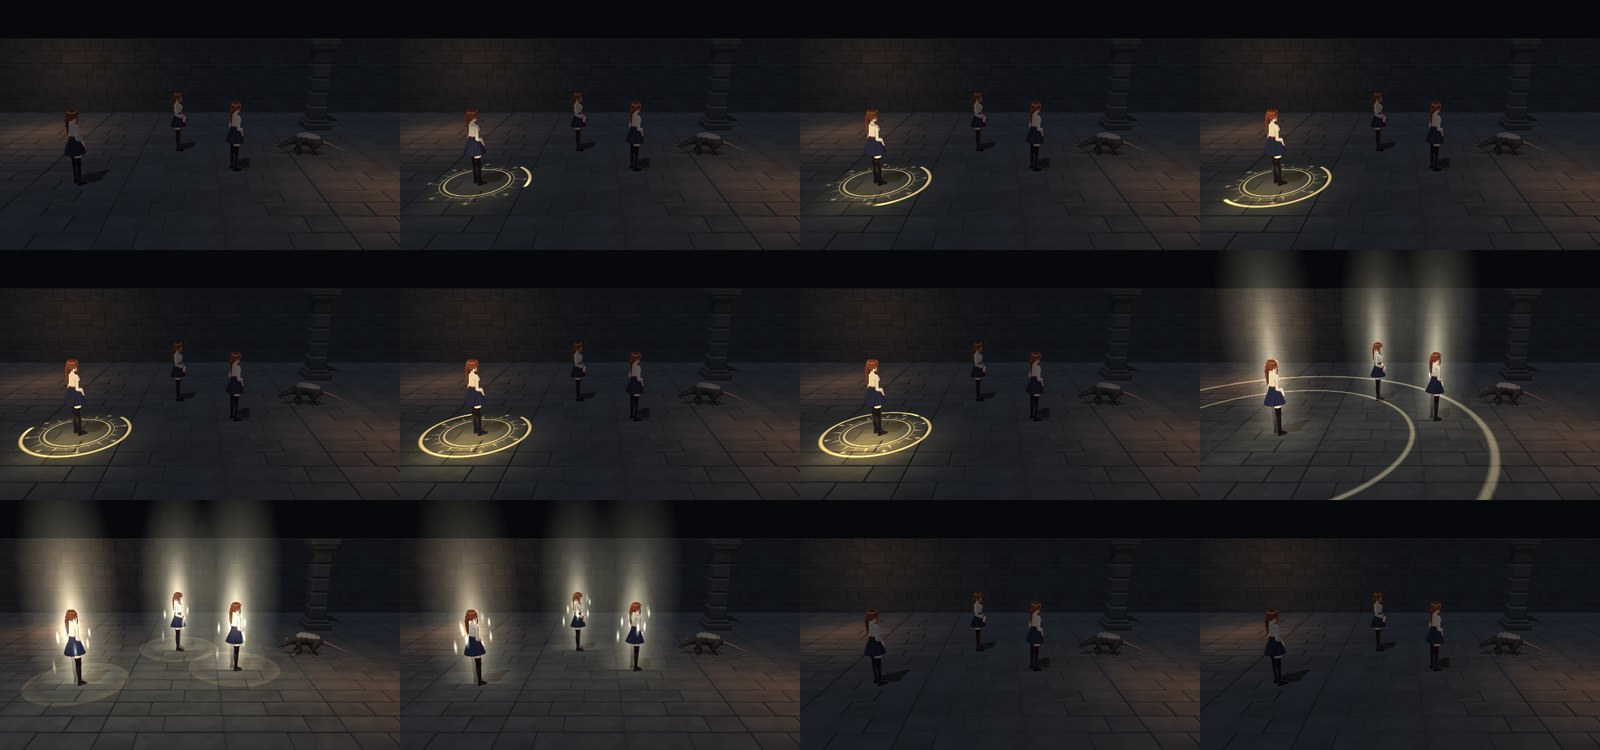
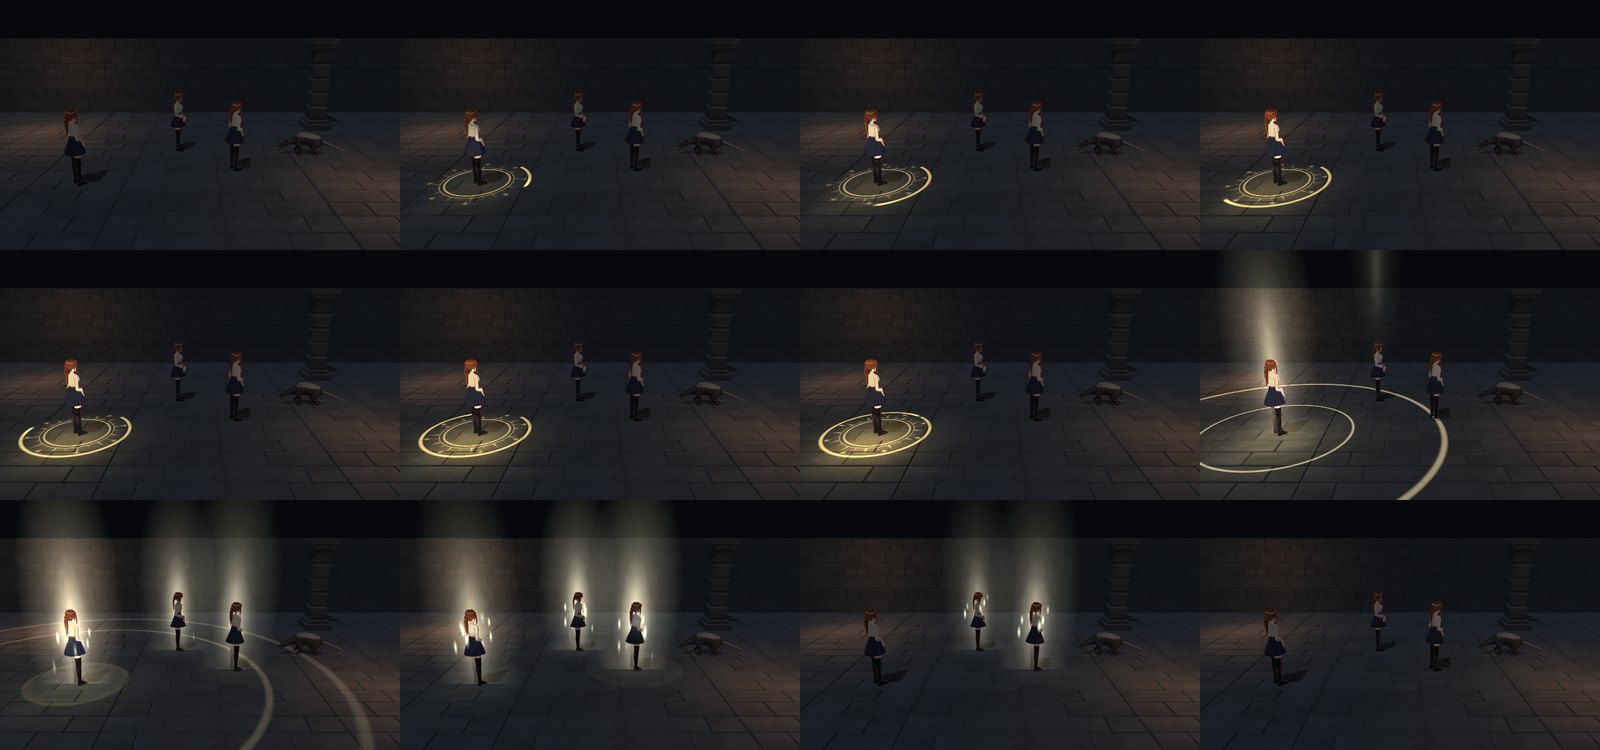
Priest talents: all six variants approved; new showcase, sheets and proof stills

diff --git a/abilities.html b/abilities.html
@@ -13,13 +13,13 @@
 </head>
 <body>
 <header class="top"><div class="wrap"><a class="brand" href="index.html">Ashen <b>Covenant</b></a><nav aria-label="Sections"><a href="index.html">Overview</a><a href="iroha.html">Iroha</a><a href="characters.html">Eve and Enosh</a><a href="abilities.html" aria-current="page">Skill animations</a><a href="guild-hall.html">Guild hall</a><a href="dungeon.html">Dungeon</a><a href="town.html">Town</a><a href="models.html">Model viewer</a><a href="explore.html">Scene viewer</a></nav></div></header>
-<section class="hero"><div class="wrap"><p class="eyebrow">Skill animations</p><h1>Priest spell effects</h1><p class="lede">A holy cast circle under the priest, then Lesser Heal, Smite and Barrier of Light, and what happens when a prayer is interrupted. All recordings are frames from the Windows player at half size.</p><p class="status"><b>Status:</b> the spell effects were independently approved at 8.3/10 on the fourth review pass. The ability proof passes its automated checks (Editor 22/22, Windows player 20/20) but has not been played by a person.</p></div></section><main class="page"><div class="wrap"><h2 id="talents">Priest talent variants</h2><p>Talents that replace or add priest abilities. Two are new effects; the others reuse the approved ones with new settings, so the approved look is unchanged by default.</p><figure><a href="media/abilities/c11-priest-talents-close-cold.gif"><img src="media/abilities/c11-priest-talents-close-cold.gif" alt="All six in one 22.6 second showcase, close camera, dark preset (12 MB)." loading="lazy"></a><figcaption>All six in one 22.6 second showcase, close camera, dark preset (12 MB).</figcaption></figure><div class="scroll"><table><tr><th>Talent</th><th>What is shown</th></tr>
-<tr><td>Swift Prayer</td><td>Lesser Heal played 1.8 times as fast at three-quarters size; the priest&#39;s circle only flashes, since the prayer is instant.</td></tr>
-<tr><td>Hallowed Ground</td><td>New. A consecrated circle of gold line work on the floor that pulses with each one-second heal for six seconds.</td></tr>
-<tr><td>Mirror of Light</td><td>Barrier of Light, silvered; when broken, its shards are thrown back at whoever broke it.</td></tr>
-<tr><td>Shared Light</td><td>New. A pale ring rolls out 4 m from the priest and every ally inside shows a barrier.</td></tr>
-<tr><td>Judgement</td><td>Smite drawn 1.8 times as large over a 1.6 s cast.</td></tr>
-<tr><td>Benediction</td><td>A gold ring rolls out to 6 m and each ally in reach shows a smaller Lesser Heal.</td></tr></table></div><div class="pair"><figure><a href="media/abilities/c11-priest-talents-sheet-hallowed.jpg"><img src="media/abilities/c11-priest-talents-sheet-hallowed.jpg" alt="Hallowed Ground." loading="lazy"></a><figcaption>Hallowed Ground.</figcaption></figure><figure><a href="media/abilities/c11-priest-talents-sheet-mirror.jpg"><img src="media/abilities/c11-priest-talents-sheet-mirror.jpg" alt="Mirror of Light." loading="lazy"></a><figcaption>Mirror of Light.</figcaption></figure><figure><a href="media/abilities/c11-priest-talents-sheet-shared.jpg"><img src="media/abilities/c11-priest-talents-sheet-shared.jpg" alt="Shared Light." loading="lazy"></a><figcaption>Shared Light.</figcaption></figure><figure><a href="media/abilities/c11-priest-talents-sheet-benediction.jpg"><img src="media/abilities/c11-priest-talents-sheet-benediction.jpg" alt="Benediction." loading="lazy"></a><figcaption>Benediction.</figcaption></figure><figure><a href="media/abilities/c11-priest-talents-sheet-swift.jpg"><img src="media/abilities/c11-priest-talents-sheet-swift.jpg" alt="Swift Prayer." loading="lazy"></a><figcaption>Swift Prayer.</figcaption></figure><figure><a href="media/abilities/c11-priest-talents-sheet-judgement.jpg"><img src="media/abilities/c11-priest-talents-sheet-judgement.jpg" alt="Judgement." loading="lazy"></a><figcaption>Judgement.</figcaption></figure></div><ul class="short"><li>Built and wired into the ability proof, where T switches the priest&#39;s talents; all automated checks pass. The first independent review scored 7.1/10 and asked for changes (the main one: allies healed by Hallowed Ground show nothing on their bodies). Those changes are being made now; by the project rule the variants are unfinished until a review reaches 8.</li></ul><details class="older"><summary><h2 id="mercy"><span class="when">Earlier</span>Goddess&#39; Mercy</h2></summary><div class="older-body"><p>The priest&#39;s revival prayer. Light gathers above the fallen ally during the prayer; on completion it comes down, wings of light open behind the ally as they rise, and the pillar outlasts the rise. If the prayer is broken, the light drops, the feathers fall out of the air and the ring goes cold and closes on the body.</p><figure><a href="media/abilities/c11-goddess-mercy-close-cold.gif"><img src="media/abilities/c11-goddess-mercy-close-cold.gif" alt="Goddess&amp;#39; Mercy, close camera, dark preset (7 MB)." loading="lazy"></a><figcaption>Goddess&#39; Mercy, close camera, dark preset (7 MB).</figcaption></figure><figure><a href="media/abilities/c11-goddess-mercy-sheet-completion.jpg"><img src="media/abilities/c11-goddess-mercy-sheet-completion.jpg" alt="The completion, frame by frame." loading="lazy"></a><figcaption>The completion, frame by frame.</figcaption></figure><ul class="short"><li>Independently reviewed at 8.1/10 and approved with no required changes. At your request the reviewer&#39;s optional polish was then applied: fuller wings that arrive late in the prayer, beats in the prayer, a smaller priest circle and a cleaner interrupted state. The polished version has not been reviewed again.</li><li>The Warrior effects (Strike, Guard, Shield Bash, Taunt) are on hold at your word until Eve and Enosh are finished; their first review scored 7.4.</li></ul></div></details><details class="older"><summary><h2><span class="when">Earlier</span>Driven by the ability rules</h2></summary><div class="older-body"><p>A small room with a Warrior, a Priest and one scavenger. The rules decide who can act, what it costs, when a prayer is interrupted and how much is healed or absorbed; the effects only show what the rules report. Both party members use the guild clerk as a stand-in body.</p><figure><a href="media/abilities/c11-ability-proof-demo.gif"><img src="media/abilities/c11-ability-proof-demo.gif" alt="Twenty seconds of a fight with both party members run by the companion logic (17 MB)." loading="lazy"></a><figcaption>Twenty seconds of a fight with both party members run by the companion logic (17 MB).</figcaption></figure><div class="grid3"><figure><a href="media/abilities/c11-ability-proof-heal-casting.jpg"><img src="media/abilities/c11-ability-proof-heal-casting.jpg" alt="Prayer under way." loading="lazy"></a><figcaption>Prayer under way.</figcaption></figure><figure><a href="media/abilities/c11-ability-proof-smite-strike.jpg"><img src="media/abilities/c11-ability-proof-smite-strike.jpg" alt="Smite landing." loading="lazy"></a><figcaption>Smite landing.</figcaption></figure><figure><a href="media/abilities/c11-ability-proof-barrier-resting.jpg"><img src="media/abilities/c11-ability-proof-barrier-resting.jpg" alt="Barrier on the warrior." loading="lazy"></a><figcaption>Barrier on the warrior.</figcaption></figure></div></div></details><details class="older"><summary><h2><span class="when">Earlier</span>The four effects</h2></summary><div class="older-body"><p>One 10.6 second showcase: Lesser Heal, Smite, Barrier of Light (struck once, then broken) and a prayer interrupted mid-cast. The capsules stand in for the priest and an ally.</p><figure><a href="media/abilities/c11-holy-spells-v001-close-cold.gif"><img src="media/abilities/c11-holy-spells-v001-close-cold.gif" alt="Close camera, dark preset." loading="lazy"></a><figcaption>Close camera, dark preset.</figcaption></figure><div class="pair"><figure><a href="media/abilities/c11-holy-spells-v001-gameplay-cold.gif"><img src="media/abilities/c11-holy-spells-v001-gameplay-cold.gif" alt="Gameplay camera, dark preset." loading="lazy"></a><figcaption>Gameplay camera, dark preset.</figcaption></figure><figure><a href="media/abilities/c11-holy-spells-v001-gameplay-warm.gif"><img src="media/abilities/c11-holy-spells-v001-gameplay-warm.gif" alt="Gameplay camera, bright preset." loading="lazy"></a><figcaption>Gameplay camera, bright preset.</figcaption></figure></div><div class="scroll"><table><tr><th>Effect</th><th>What is shown</th></tr>
+<section class="hero"><div class="wrap"><p class="eyebrow">Skill animations</p><h1>Priest spell effects</h1><p class="lede">A holy cast circle under the priest, then Lesser Heal, Smite and Barrier of Light, and what happens when a prayer is interrupted. All recordings are frames from the Windows player at half size.</p><p class="status"><b>Status:</b> the spell effects were independently approved at 8.3/10 on the fourth review pass. The ability proof passes its automated checks (Editor 22/22, Windows player 20/20) but has not been played by a person.</p></div></section><main class="page"><div class="wrap"><h2 id="talents">Priest talent variants</h2><p>Talents that replace or add priest abilities. Two are new effects; the others reuse the approved ones with new settings, so the approved look is unchanged by default. Waiting for your review.</p><figure><a href="media/abilities/c11-priest-talents-close-cold.gif"><img src="media/abilities/c11-priest-talents-close-cold.gif" alt="All six in one 22.6 second showcase, close camera, dark preset (13 MB)." loading="lazy"></a><figcaption>All six in one 22.6 second showcase, close camera, dark preset (13 MB).</figcaption></figure><div class="scroll"><table><tr><th>Talent</th><th>What is shown</th><th>Review</th></tr>
+<tr><td>Swift Prayer</td><td>Lesser Heal, faster and smaller, landing almost as the prayer is spoken. The priest&#39;s circle is only a faint closed gold ring for an instant, so your eye goes to the healed ally.</td><td>8.0/10</td></tr>
+<tr><td>Hallowed Ground</td><td>New. A consecrated circle of gold line work on the floor. Each one-second heal sends a ripple to the rim and shows a small heal on every ally standing in it.</td><td>8.1/10</td></tr>
+<tr><td>Mirror of Light</td><td>Barrier of Light, silvered. When broken, the shards fly at whoever broke it and burst on them; the light goes with them and a ring opens on the floor under the attacker.</td><td>8.3/10</td></tr>
+<tr><td>Shared Light</td><td>New. A pale ring rolls out 4 m from the priest; every ally inside, the priest too, gets a slightly smaller barrier that rests pale gold-white.</td><td>8.2/10</td></tr>
+<tr><td>Judgement</td><td>Its own effect, built on Smite at 1.8 times the size over a 1.6 s cast: a sun mark with a second halo ring turning the other way, then a broad shaft.</td><td>8.3/10</td></tr>
+<tr><td>Benediction</td><td>A gold ring rolls out to 6 m; each ally in reach, the priest too, shows a smaller Lesser Heal as the ring reaches them.</td><td>8.2/10</td></tr></table></div><ul class="short"><li>All six approved by independent critics, each reviewed on its own (the rule is 8/10). Hallowed Ground and Benediction passed on the second review; the other four on the third, after these changes: Swift Prayer&#39;s circle made faint and instant; Mirror of Light&#39;s shards sent to the attacker; Shared Light given its own gold-white barriers; Judgement given a halo and a thin ripple. The approved Lesser Heal, Smite and Barrier of Light look exactly as before.</li><li>Fixed along the way: stills from the ability proof sometimes showed the previous spell&#39;s effects for one frame.</li><li>One known quirk, left as approved: Hallowed Ground&#39;s sixth heal comes as the circle fades, so it shows on the ally but not on the circle.</li><li>The reviewers&#39; optional polish was not applied. The Warrior effects stay on hold until Eve and Enosh are finished.</li></ul><h3>Frame sheets</h3><div class="pair"><figure><a href="media/abilities/c11-priest-talents-sheet-swift.jpg"><img src="media/abilities/c11-priest-talents-sheet-swift.jpg" alt="Swift Prayer." loading="lazy"></a><figcaption>Swift Prayer.</figcaption></figure><figure><a href="media/abilities/c11-priest-talents-sheet-hallowed.jpg"><img src="media/abilities/c11-priest-talents-sheet-hallowed.jpg" alt="Hallowed Ground." loading="lazy"></a><figcaption>Hallowed Ground.</figcaption></figure><figure><a href="media/abilities/c11-priest-talents-sheet-mirror.jpg"><img src="media/abilities/c11-priest-talents-sheet-mirror.jpg" alt="Mirror of Light." loading="lazy"></a><figcaption>Mirror of Light.</figcaption></figure><figure><a href="media/abilities/c11-priest-talents-sheet-shared.jpg"><img src="media/abilities/c11-priest-talents-sheet-shared.jpg" alt="Shared Light." loading="lazy"></a><figcaption>Shared Light.</figcaption></figure><figure><a href="media/abilities/c11-priest-talents-sheet-judgement.jpg"><img src="media/abilities/c11-priest-talents-sheet-judgement.jpg" alt="Judgement." loading="lazy"></a><figcaption>Judgement.</figcaption></figure><figure><a href="media/abilities/c11-priest-talents-sheet-benediction.jpg"><img src="media/abilities/c11-priest-talents-sheet-benediction.jpg" alt="Benediction." loading="lazy"></a><figcaption>Benediction.</figcaption></figure></div><h3>Run by the ability rules</h3><p>The same effects in the ability proof, where the rules decide every heal, barrier and strike (press T there to switch the priest&#39;s talents).</p><div class="grid3"><figure><a href="media/abilities/c11-ability-proof-swift-prayer.jpg"><img src="media/abilities/c11-ability-proof-swift-prayer.jpg" alt="Swift Prayer." loading="lazy"></a><figcaption>Swift Prayer.</figcaption></figure><figure><a href="media/abilities/c11-ability-proof-hallowed-ground.jpg"><img src="media/abilities/c11-ability-proof-hallowed-ground.jpg" alt="Hallowed Ground." loading="lazy"></a><figcaption>Hallowed Ground.</figcaption></figure><figure><a href="media/abilities/c11-ability-proof-mirror-recoil.jpg"><img src="media/abilities/c11-ability-proof-mirror-recoil.jpg" alt="Mirror of Light breaking." loading="lazy"></a><figcaption>Mirror of Light breaking.</figcaption></figure><figure><a href="media/abilities/c11-ability-proof-shared-light.jpg"><img src="media/abilities/c11-ability-proof-shared-light.jpg" alt="Shared Light." loading="lazy"></a><figcaption>Shared Light.</figcaption></figure><figure><a href="media/abilities/c11-ability-proof-judgement.jpg"><img src="media/abilities/c11-ability-proof-judgement.jpg" alt="Judgement." loading="lazy"></a><figcaption>Judgement.</figcaption></figure><figure><a href="media/abilities/c11-ability-proof-benediction.jpg"><img src="media/abilities/c11-ability-proof-benediction.jpg" alt="Benediction." loading="lazy"></a><figcaption>Benediction.</figcaption></figure></div><details class="older"><summary><h2 id="mercy"><span class="when">Earlier</span>Goddess&#39; Mercy</h2></summary><div class="older-body"><p>The priest&#39;s revival prayer. Light gathers above the fallen ally during the prayer; on completion it comes down, wings of light open behind the ally as they rise, and the pillar outlasts the rise. If the prayer is broken, the light drops, the feathers fall out of the air and the ring goes cold and closes on the body.</p><figure><a href="media/abilities/c11-goddess-mercy-close-cold.gif"><img src="media/abilities/c11-goddess-mercy-close-cold.gif" alt="Goddess&amp;#39; Mercy, close camera, dark preset (7 MB)." loading="lazy"></a><figcaption>Goddess&#39; Mercy, close camera, dark preset (7 MB).</figcaption></figure><figure><a href="media/abilities/c11-goddess-mercy-sheet-completion.jpg"><img src="media/abilities/c11-goddess-mercy-sheet-completion.jpg" alt="The completion, frame by frame." loading="lazy"></a><figcaption>The completion, frame by frame.</figcaption></figure><ul class="short"><li>Independently reviewed at 8.1/10 and approved with no required changes. At your request the reviewer&#39;s optional polish was then applied: fuller wings that arrive late in the prayer, beats in the prayer, a smaller priest circle and a cleaner interrupted state. The polished version has not been reviewed again.</li><li>The Warrior effects (Strike, Guard, Shield Bash, Taunt) are on hold at your word until Eve and Enosh are finished; their first review scored 7.4.</li></ul></div></details><details class="older"><summary><h2><span class="when">Earlier</span>Driven by the ability rules</h2></summary><div class="older-body"><p>A small room with a Warrior, a Priest and one scavenger. The rules decide who can act, what it costs, when a prayer is interrupted and how much is healed or absorbed; the effects only show what the rules report. Both party members use the guild clerk as a stand-in body.</p><figure><a href="media/abilities/c11-ability-proof-demo.gif"><img src="media/abilities/c11-ability-proof-demo.gif" alt="Twenty seconds of a fight with both party members run by the companion logic (17 MB)." loading="lazy"></a><figcaption>Twenty seconds of a fight with both party members run by the companion logic (17 MB).</figcaption></figure><div class="grid3"><figure><a href="media/abilities/c11-ability-proof-heal-casting.jpg"><img src="media/abilities/c11-ability-proof-heal-casting.jpg" alt="Prayer under way." loading="lazy"></a><figcaption>Prayer under way.</figcaption></figure><figure><a href="media/abilities/c11-ability-proof-smite-strike.jpg"><img src="media/abilities/c11-ability-proof-smite-strike.jpg" alt="Smite landing." loading="lazy"></a><figcaption>Smite landing.</figcaption></figure><figure><a href="media/abilities/c11-ability-proof-barrier-resting.jpg"><img src="media/abilities/c11-ability-proof-barrier-resting.jpg" alt="Barrier on the warrior." loading="lazy"></a><figcaption>Barrier on the warrior.</figcaption></figure></div></div></details><details class="older"><summary><h2><span class="when">Earlier</span>The four effects</h2></summary><div class="older-body"><p>One 10.6 second showcase: Lesser Heal, Smite, Barrier of Light (struck once, then broken) and a prayer interrupted mid-cast. The capsules stand in for the priest and an ally.</p><figure><a href="media/abilities/c11-holy-spells-v001-close-cold.gif"><img src="media/abilities/c11-holy-spells-v001-close-cold.gif" alt="Close camera, dark preset." loading="lazy"></a><figcaption>Close camera, dark preset.</figcaption></figure><div class="pair"><figure><a href="media/abilities/c11-holy-spells-v001-gameplay-cold.gif"><img src="media/abilities/c11-holy-spells-v001-gameplay-cold.gif" alt="Gameplay camera, dark preset." loading="lazy"></a><figcaption>Gameplay camera, dark preset.</figcaption></figure><figure><a href="media/abilities/c11-holy-spells-v001-gameplay-warm.gif"><img src="media/abilities/c11-holy-spells-v001-gameplay-warm.gif" alt="Gameplay camera, bright preset." loading="lazy"></a><figcaption>Gameplay camera, bright preset.</figcaption></figure></div><div class="scroll"><table><tr><th>Effect</th><th>What is shown</th></tr>
 <tr><td>Holy cast circle</td><td>Gold line work under the priest. The outer ring draws itself clockwise over the cast time, then flashes white and opens.</td></tr>
 <tr><td>Interrupted prayer</td><td>The circle turns cold blue-white, cracks into dashes and slides inward. Gone in 0.45 s with no release flash.</td></tr>
 <tr><td>Lesser Heal</td><td>A soft column of warm light settles on the ally, a gold ring lands at the feet and motes rise along the body.</td></tr>

diff --git a/index.html b/index.html
@@ -13,7 +13,7 @@
 </head>
 <body>
 <header class="top"><div class="wrap"><a class="brand" href="index.html">Ashen <b>Covenant</b></a><nav aria-label="Sections"><a href="index.html" aria-current="page">Overview</a><a href="iroha.html">Iroha</a><a href="characters.html">Eve and Enosh</a><a href="abilities.html">Skill animations</a><a href="guild-hall.html">Guild hall</a><a href="dungeon.html">Dungeon</a><a href="town.html">Town</a><a href="models.html">Model viewer</a><a href="explore.html">Scene viewer</a></nav></div></header>
-<section class="hero"><div class="wrap"><p class="eyebrow">Work log · 13–14 October 2026</p><h1>Ashen Covenant</h1><p class="lede">A party dungeon game in Unity. This page collects the work of the last two days: the guild clerk's model, the two character templates, the priest's spell effects, the guild hall, the first dungeon floor and the town.</p><p class="actions"><a class="btn" href="models.html">Model viewer<small>Turn the characters round</small></a><a class="btn" href="explore.html">Scene viewer<small>Move through the areas</small></a></p></div></section><div class="wrap"><h2 class="latest-h">Latest</h2><ol class="latest"><li><time>14 Oct</time><a href="characters.html#adventurer-hairline"><b>Adventurer</b></a><span>New hairline for the male adventurer (a025): a layered fringe over the forehead, side locks to the cheekbone, a soft hair shadow on the forehead. Waiting for your review.</span></li><li><time>14 Oct</time><a href="models.html"><b>3D viewers</b></a><span>Model viewer now has Iroha v053 and Eve r064 in their idle poses; scene viewer has guild hall v011 and dungeon candidate 003.</span></li><li><time>14 Oct</time><a href="guild-hall.html"><b>Guild hall</b></a><span>Floor refinement prompt written for the hall: board joints into a texture to stop the shimmer, wear from foot traffic, warmer hearth stone, runners in place of the green mats. Planned, not built.</span></li><li><time>14 Oct</time><a href="characters.html#enosh"><b>Enosh</b></a><span>You reviewed template t004 (“looks good so far”) and adventurer a012; the adventurer’s hairline goes to its own thread.</span></li></ol><details class="older"><summary><span class="when">Earlier</span>13 Oct · 6 items</summary><ol class="latest"><li><time>13 Oct</time><a href="abilities.html#talents"><b>Priest talents</b></a><span>Six talent variants built, two of them new effects (Hallowed Ground, Shared Light); first review 7.1/10, changes under way.</span></li><li><time>13 Oct</time><a href="abilities.html#mercy"><b>Goddess’ Mercy</b></a><span>Revival prayer approved at 8.1/10, then polished: wings of light, beats in the prayer, a cleaner interruption.</span></li><li><time>13 Oct</time><a href="dungeon.html#r003"><b>Dungeon</b></a><span>Revision 003 Floor 1 candidate: pale sand drill beds, lamps strung in every room, three lesson marks and the garrison’s defended gate.</span></li><li><time>13 Oct</time><a href="characters.html#eve"><b>Eve</b></a><span>Elastic bands, a planted walk with roll and sway, real playback in a built player, pose shapes and painted landmarks (r034 to r064).</span></li><li><time>13 Oct</time><a href="iroha.html#shoes"><b>Iroha</b></a><span>New brown ankle boots designed and built (v046 to v050), then a larger stud and a rounded toe (v053). She now stands in guild candidate v011.</span></li><li><time>13 Oct</time><a href="guild-hall.html"><b>Guild hall</b></a><span>Candidates v009 to v011: stair against the east wall, the memorial on the gallery, a second storey, a tiled roof and lamps.</span></li></ol></details></div><div class="wrap"><div class="cards"><a class="card" href="iroha.html"><div class="thumb"><img src="media/iroha/t6-clerk-face-v028-unity-desk.jpg" alt=""></div><div class="body"><p class="eyebrow">Character model</p><h2>Iroha, the guild clerk</h2><p>Face, hair, hands, legs and new boots refined step by step, v020 to v053, with before and after sheets for each part.</p><span class="go">See the before and after →</span></div></a><a class="card" href="characters.html"><div class="thumb"><img src="media/characters/enosh-en13-scale.jpg" alt=""></div><div class="body"><p class="eyebrow">Character templates</p><h2>Eve and Enosh</h2><p>Eve's face, eyes, feet, undergarments and outfit; Enosh, the male template built from her, and the first male adventurer.</p><span class="go">See the templates →</span></div></a><a class="card" href="abilities.html"><div class="thumb"><img src="media/abilities/c11-ability-proof-smite-strike.jpg" alt=""></div><div class="body"><p class="eyebrow">Priest spells</p><h2>Skill animations</h2><p>Holy cast circle, Lesser Heal, Smite, Barrier of Light, Goddess Mercy with its wings of light, and six talent variants.</p><span class="go">Watch the spells →</span></div></a><a class="card" href="guild-hall.html"><div class="thumb"><img src="media/guild/v010-roof.jpg" alt=""></div><div class="body"><p class="eyebrow">Environment</p><h2>Adventurers' guild hall</h2><p>From grey blockout to a two-storey hall under a tiled roof, with a service counter, a muster yard, lamps and the memorial on its gallery.</p><span class="go">Walk the hall →</span></div></a><a class="card" href="dungeon.html"><div class="thumb"><img src="media/dungeon/after-cistern.jpg" alt=""></div><div class="body"><p class="eyebrow">Environment</p><h2>Dungeon, floor one</h2><p>Floor one rebuilt as a guild-held floor and now in the live scenes; a third candidate adds sand drill beds, rope lamps, lesson marks and the garrison gate.</p><span class="go">Go down →</span></div></a><a class="card" href="town.html"><div class="thumb"><img src="media/town/after-guild-approach.jpg" alt=""></div><div class="body"><p class="eyebrow">Environment</p><h2>Town and cathedral</h2><p>Stone paving rebuilt across the whole town, and a plot table of 31 new buildings that includes the approved cathedral. The cathedral is planned, not built.</p><span class="go">See the town →</span></div></a></div></div>
+<section class="hero"><div class="wrap"><p class="eyebrow">Work log · 13–14 October 2026</p><h1>Ashen Covenant</h1><p class="lede">A party dungeon game in Unity. This page collects the work of the last two days: the guild clerk's model, the two character templates, the priest's spell effects, the guild hall, the first dungeon floor and the town.</p><p class="actions"><a class="btn" href="models.html">Model viewer<small>Turn the characters round</small></a><a class="btn" href="explore.html">Scene viewer<small>Move through the areas</small></a></p></div></section><div class="wrap"><h2 class="latest-h">Latest</h2><ol class="latest"><li><time>14 Oct</time><a href="abilities.html#talents"><b>Priest talents</b></a><span>All six talent variants approved by independent critics (8.0 to 8.3/10), each reviewed on its own. Waiting for your review.</span></li><li><time>14 Oct</time><a href="characters.html#adventurer-hairline"><b>Adventurer</b></a><span>New hairline for the male adventurer (a025): a layered fringe over the forehead, side locks to the cheekbone, a soft hair shadow on the forehead. Waiting for your review.</span></li><li><time>14 Oct</time><a href="models.html"><b>3D viewers</b></a><span>Model viewer now has Iroha v053 and Eve r064 in their idle poses; scene viewer has guild hall v011 and dungeon candidate 003.</span></li><li><time>14 Oct</time><a href="guild-hall.html"><b>Guild hall</b></a><span>Floor refinement prompt written for the hall: board joints into a texture to stop the shimmer, wear from foot traffic, warmer hearth stone, runners in place of the green mats. Planned, not built.</span></li><li><time>14 Oct</time><a href="characters.html#enosh"><b>Enosh</b></a><span>You reviewed template t004 (“looks good so far”) and adventurer a012; the adventurer’s hairline goes to its own thread.</span></li></ol><details class="older"><summary><span class="when">Earlier</span>13 Oct · 6 items</summary><ol class="latest"><li><time>13 Oct</time><a href="abilities.html#talents"><b>Priest talents</b></a><span>Six talent variants built, two of them new effects (Hallowed Ground, Shared Light); first review 7.1/10, changes under way.</span></li><li><time>13 Oct</time><a href="abilities.html#mercy"><b>Goddess’ Mercy</b></a><span>Revival prayer approved at 8.1/10, then polished: wings of light, beats in the prayer, a cleaner interruption.</span></li><li><time>13 Oct</time><a href="dungeon.html#r003"><b>Dungeon</b></a><span>Revision 003 Floor 1 candidate: pale sand drill beds, lamps strung in every room, three lesson marks and the garrison’s defended gate.</span></li><li><time>13 Oct</time><a href="characters.html#eve"><b>Eve</b></a><span>Elastic bands, a planted walk with roll and sway, real playback in a built player, pose shapes and painted landmarks (r034 to r064).</span></li><li><time>13 Oct</time><a href="iroha.html#shoes"><b>Iroha</b></a><span>New brown ankle boots designed and built (v046 to v050), then a larger stud and a rounded toe (v053). She now stands in guild candidate v011.</span></li><li><time>13 Oct</time><a href="guild-hall.html"><b>Guild hall</b></a><span>Candidates v009 to v011: stair against the east wall, the memorial on the gallery, a second storey, a tiled roof and lamps.</span></li></ol></details></div><div class="wrap"><div class="cards"><a class="card" href="iroha.html"><div class="thumb"><img src="media/iroha/t6-clerk-face-v028-unity-desk.jpg" alt=""></div><div class="body"><p class="eyebrow">Character model</p><h2>Iroha, the guild clerk</h2><p>Face, hair, hands, legs and new boots refined step by step, v020 to v053, with before and after sheets for each part.</p><span class="go">See the before and after →</span></div></a><a class="card" href="characters.html"><div class="thumb"><img src="media/characters/enosh-en13-scale.jpg" alt=""></div><div class="body"><p class="eyebrow">Character templates</p><h2>Eve and Enosh</h2><p>Eve's face, eyes, feet, undergarments and outfit; Enosh, the male template built from her, and the first male adventurer.</p><span class="go">See the templates →</span></div></a><a class="card" href="abilities.html"><div class="thumb"><img src="media/abilities/c11-ability-proof-smite-strike.jpg" alt=""></div><div class="body"><p class="eyebrow">Priest spells</p><h2>Skill animations</h2><p>Holy cast circle, Lesser Heal, Smite, Barrier of Light, Goddess Mercy with its wings of light, and six talent variants.</p><span class="go">Watch the spells →</span></div></a><a class="card" href="guild-hall.html"><div class="thumb"><img src="media/guild/v010-roof.jpg" alt=""></div><div class="body"><p class="eyebrow">Environment</p><h2>Adventurers' guild hall</h2><p>From grey blockout to a two-storey hall under a tiled roof, with a service counter, a muster yard, lamps and the memorial on its gallery.</p><span class="go">Walk the hall →</span></div></a><a class="card" href="dungeon.html"><div class="thumb"><img src="media/dungeon/after-cistern.jpg" alt=""></div><div class="body"><p class="eyebrow">Environment</p><h2>Dungeon, floor one</h2><p>Floor one rebuilt as a guild-held floor and now in the live scenes; a third candidate adds sand drill beds, rope lamps, lesson marks and the garrison gate.</p><span class="go">Go down →</span></div></a><a class="card" href="town.html"><div class="thumb"><img src="media/town/after-guild-approach.jpg" alt=""></div><div class="body"><p class="eyebrow">Environment</p><h2>Town and cathedral</h2><p>Stone paving rebuilt across the whole town, and a plot table of 31 new buildings that includes the approved cathedral. The cathedral is planned, not built.</p><span class="go">See the town →</span></div></a></div></div>
 <footer><div class="wrap">Ashen Covenant · work log, 13–14 October 2026 · captures are from Unity or Blender as labelled</div></footer>
 </body>
 </html>
